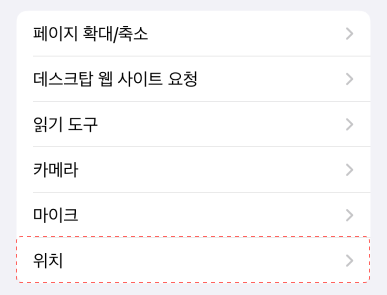
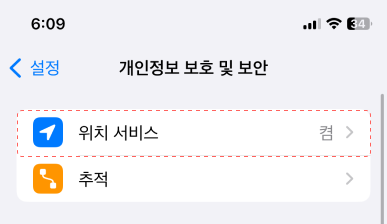
chore: GPS 설정 페이지에 Safari 위치 서비스 켜는 설명 추가

diff --git a/src/pages/root/GPSSolutionPage.jsx b/src/pages/root/GPSSolutionPage.jsx
@@ -8,6 +8,7 @@ const GPSSolutionPage = () => {
   const handleClickTab = (e) => {
     setSelectedTab(e.target.id);
   };
+
   return (
     <WrapPage>
       <HeaderPrev
@@ -46,7 +47,7 @@ const GPSSolutionPage = () => {
       {selectedTab === 'Safari' && (
         <WrapBox>
           <div>
-            1. 설정 접속 후 <strong>Safari</strong>를 찾아 주세요
+            1. 설정 접속 후 <strong>개인정보 보호 및 보안</strong>을 찾아주세요.
           </div>
           <ImageAlign>
             <img
@@ -61,7 +62,7 @@ const GPSSolutionPage = () => {
             />
           </ImageAlign>
           <div>
-            2. <strong>위치</strong>를 찾아주세요
+            2. <strong>위치 서비스</strong>를 눌러주세요.
           </div>
           <ImageAlign>
             <img
@@ -71,7 +72,7 @@ const GPSSolutionPage = () => {
             />
           </ImageAlign>
           <div>
-            3. 위치 접근을 <strong>허용</strong>해주세요
+            3. <strong>위치 서비스</strong>를 켜 주세요.
           </div>
           <ImageAlign>
             <img
@@ -81,7 +82,58 @@ const GPSSolutionPage = () => {
             />
           </ImageAlign>
           <div>
-            4. distance 앱을 <strong>종료 후 재로그인</strong>해주세요
+            4. 아래로 스크롤해 <strong>Safari 웹 사이트</strong>를 눌러주세요.
+          </div>
+          <ImageAlign>
+            <img
+              src="/assets/gps-troubleshooting/ios-5.png"
+              alt="iOS4"
+              width={250}
+            />
+          </ImageAlign>
+          <div>
+            5. 위치 접근 허용을 <strong>앱을 사용하는 동안</strong>으로
+            바꿔주세요.
+          </div>
+          <ImageAlign>
+            <img
+              src="/assets/gps-troubleshooting/ios-6.png"
+              alt="iOS4"
+              width={250}
+            />
+          </ImageAlign>
+          <div>
+            6. 설정 홈으로 나가 <strong>Safari</strong>를 찾아주세요.
+          </div>
+          <ImageAlign>
+            <img
+              src="/assets/gps-troubleshooting/ios-7.png"
+              alt="iOS4"
+              width={250}
+            />
+          </ImageAlign>
+          <div>
+            7. 아래로 스크롤해 <strong>위치</strong>를 찾아주세요.
+          </div>
+          <ImageAlign>
+            <img
+              src="/assets/gps-troubleshooting/ios-8.png"
+              alt="iOS4"
+              width={250}
+            />
+          </ImageAlign>
+          <div>
+            8. 위치 접근을 <strong>허용</strong>해주세요.
+          </div>
+          <ImageAlign>
+            <img
+              src="/assets/gps-troubleshooting/ios-9.png"
+              alt="iOS4"
+              width={250}
+            />
+          </ImageAlign>
+          <div>
+            9. distance 앱을 <strong>종료 후 재로그인</strong>해주세요.
           </div>
         </WrapBox>
       )}
@@ -89,7 +141,7 @@ const GPSSolutionPage = () => {
       {selectedTab === 'Chrome' && (
         <WrapBox>
           <div>
-            1. Chrome에 접속해 상단의 <strong>... 버튼</strong>을 눌러주세요
+            1. Chrome에 접속해 상단의 <strong>... 버튼</strong>을 눌러주세요.
           </div>
           <ImageAlign>
             <img
@@ -104,7 +156,7 @@ const GPSSolutionPage = () => {
             />
           </ImageAlign>
           <div>
-            2. 설정에 들어가 <strong>사이트 설정 메뉴</strong>를 클릭해주세요
+            2. 설정에 들어가 <strong>사이트 설정 메뉴</strong>를 클릭해주세요.
           </div>
           <ImageAlign>
             <img
@@ -119,7 +171,7 @@ const GPSSolutionPage = () => {
             />
           </ImageAlign>
           <div>
-            3. <strong>위치</strong>에 들어갑니다
+            3. <strong>위치</strong>를 찾아주세요.
           </div>
           <ImageAlign>
             <img
@@ -129,7 +181,7 @@ const GPSSolutionPage = () => {
             />
           </ImageAlign>
           <div>
-            4. <strong>dis-tance.com</strong>에 들어가 위치 접근을 허용해주세요
+            4. <strong>dis-tance.com</strong>에 들어가 위치 접근을 허용해주세요.
           </div>
 
           <ImageAlign>
@@ -141,7 +193,7 @@ const GPSSolutionPage = () => {
           </ImageAlign>
 
           <div>
-            5. distance 앱을 <strong>종료 후 재로그인</strong>해주세요
+            5. distance 앱을 <strong>종료 후 재로그인</strong>해주세요.
           </div>
         </WrapBox>
       )}
@@ -149,7 +201,7 @@ const GPSSolutionPage = () => {
       {selectedTab === 'Samsung Internet' && (
         <WrapBox>
           <div>
-            1. 삼성 인터넷에 들어가 하단의 <strong>메뉴</strong>를 누릅니다
+            1. 삼성 인터넷에 들어가 하단의 <strong>메뉴</strong>를 눌러주세요.
           </div>
           <ImageAlign>
             <img
@@ -164,7 +216,7 @@ const GPSSolutionPage = () => {
             />
           </ImageAlign>
           <div>
-            2. 설정에 들어가 <strong>인터넷 사용 기록</strong>에 들어갑니다
+            2. 설정에 들어가 <strong>인터넷 사용 기록</strong>을 찾아주세요.
           </div>
           <ImageAlign>
             <img
@@ -179,7 +231,7 @@ const GPSSolutionPage = () => {
             />
           </ImageAlign>
           <div>
-            3. <strong>인터넷 사용 기록 삭제</strong>에 들어갑니다
+            3. <strong>인터넷 사용 기록 삭제</strong>를 눌러주세요.
           </div>
           <ImageAlign>
             <img
@@ -189,7 +241,7 @@ const GPSSolutionPage = () => {
             />
           </ImageAlign>
           <div>
-            4. 데이터를 <strong>삭제</strong>합니다
+            4. 데이터를 <strong>삭제</strong>해주세요.
           </div>
           <ImageAlign>
             <img
@@ -199,7 +251,7 @@ const GPSSolutionPage = () => {
             />
           </ImageAlign>
           <div>
-            5. distance 앱을 <strong>종료 후 재로그인</strong>해주세요
+            5. distance 앱을 <strong>종료 후 재로그인</strong>해주세요.
           </div>
         </WrapBox>
       )}

diff --git a/src/pages/root/NotificationSolutionPage.jsx b/src/pages/root/NotificationSolutionPage.jsx
@@ -44,7 +44,7 @@ const NotificationSolutionPage = () => {
       {selectedTab === 'Safari' && (
         <WrapBox>
           <div>
-            1. 설정 접속 후 <strong>distance</strong>를 찾아 주세요
+            1. 설정 접속 후 <strong>distance</strong>를 찾아주세요.
           </div>
           <ImageAlign>
             <img
@@ -59,7 +59,7 @@ const NotificationSolutionPage = () => {
             />
           </ImageAlign>
           <div>
-            2. 알림을 <strong>허용</strong>해주세요
+            2. 알림을 <strong>허용</strong>해주세요.
           </div>
           <ImageAlign>
             <img
@@ -69,7 +69,7 @@ const NotificationSolutionPage = () => {
             />
           </ImageAlign>
           <div>
-            3. distance 앱을 <strong>종료 후 재로그인</strong>해주세요
+            3. distance 앱을 <strong>종료 후 재로그인</strong>해주세요.
           </div>
         </WrapBox>
       )}
@@ -77,7 +77,7 @@ const NotificationSolutionPage = () => {
       {selectedTab === 'Chrome' && (
         <WrapBox>
           <div>
-            1. Chrome에 접속해 상단의 <strong>... 버튼</strong>을 눌러주세요
+            1. Chrome에 접속해 상단의 <strong>... 버튼</strong>을 눌러주세요.
           </div>
           <ImageAlign>
             <img
@@ -92,7 +92,7 @@ const NotificationSolutionPage = () => {
             />
           </ImageAlign>
           <div>
-            2. 설정에 들어가 <strong>알림 메뉴</strong>를 클릭해주세요
+            2. 설정에 들어가 <strong>알림 메뉴</strong>를 클릭해주세요.
           </div>
           <ImageAlign>
             <img
@@ -107,7 +107,7 @@ const NotificationSolutionPage = () => {
             />
           </ImageAlign>
           <div>
-            3. <strong>앱 알림 상세 설정</strong>에 들어갑니다
+            3. <strong>앱 알림 상세 설정</strong>을 찾아주세요.
           </div>
           <ImageAlign>
             <img
@@ -117,7 +117,7 @@ const NotificationSolutionPage = () => {
             />
           </ImageAlign>
           <div>
-            4. <strong>dis-tance.com</strong>에 들어가 알림을 허용해주세요
+            4. <strong>dis-tance.com</strong>에 들어가 알림을 허용해주세요.
           </div>
 
           <ImageAlign>
@@ -134,7 +134,7 @@ const NotificationSolutionPage = () => {
           </ImageAlign>
 
           <div>
-            5. distance 앱을 <strong>종료 후 재로그인</strong>해주세요
+            5. distance 앱을 <strong>종료 후 재로그인</strong>해주세요.
           </div>
         </WrapBox>
       )}
@@ -142,7 +142,7 @@ const NotificationSolutionPage = () => {
       {selectedTab === 'Samsung Internet' && (
         <WrapBox>
           <div>
-            1. 삼성 인터넷에 들어가 하단의 <strong>메뉴</strong>를 누릅니다
+            1. 삼성 인터넷에 들어가 하단의 <strong>메뉴</strong>를 눌러주세요.
           </div>
           <ImageAlign>
             <img
@@ -157,7 +157,7 @@ const NotificationSolutionPage = () => {
             />
           </ImageAlign>
           <div>
-            2. 설정에 들어가 <strong>인터넷 사용 기록</strong>에 들어갑니다
+            2. 설정에 들어가 <strong>인터넷 사용 기록</strong>을 찾아주세요.
           </div>
           <ImageAlign>
             <img
@@ -172,7 +172,7 @@ const NotificationSolutionPage = () => {
             />
           </ImageAlign>
           <div>
-            3. <strong>인터넷 사용 기록 삭제</strong>에 들어갑니다
+            3. <strong>인터넷 사용 기록 삭제</strong>를 눌러주세요.
           </div>
           <ImageAlign>
             <img
@@ -182,7 +182,7 @@ const NotificationSolutionPage = () => {
             />
           </ImageAlign>
           <div>
-            4. 데이터를 <strong>삭제</strong>합니다
+            4. 데이터를 <strong>삭제</strong>해주세요.
           </div>
           <ImageAlign>
             <img
@@ -192,7 +192,7 @@ const NotificationSolutionPage = () => {
             />
           </ImageAlign>
           <div>
-            5. distance 앱을 <strong>종료 후 재로그인</strong>해주세요
+            5. distance 앱을 <strong>종료 후 재로그인</strong>해주세요.
           </div>
         </WrapBox>
       )}
